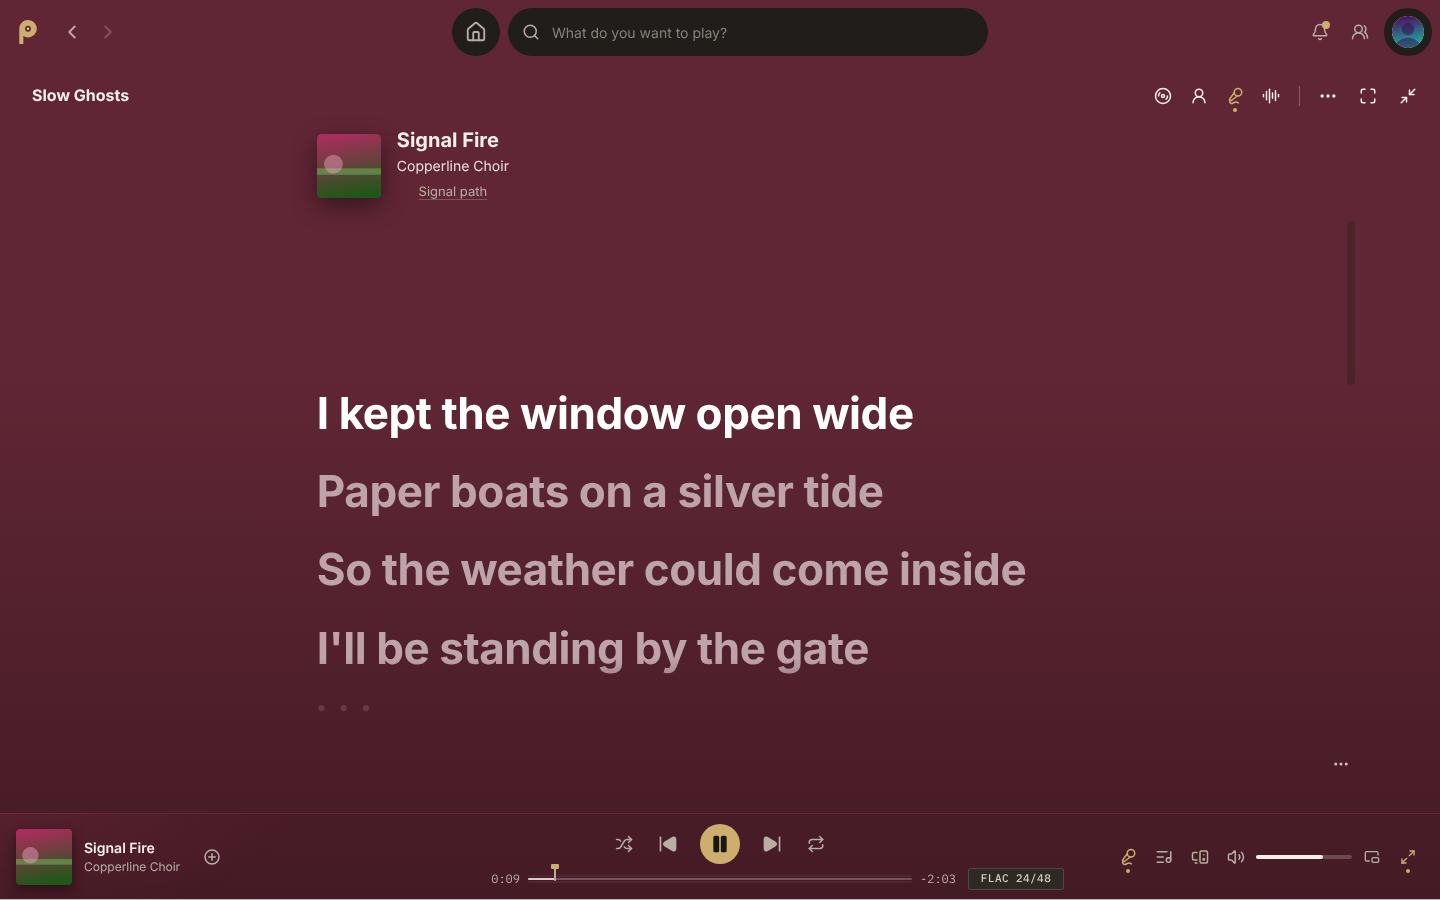
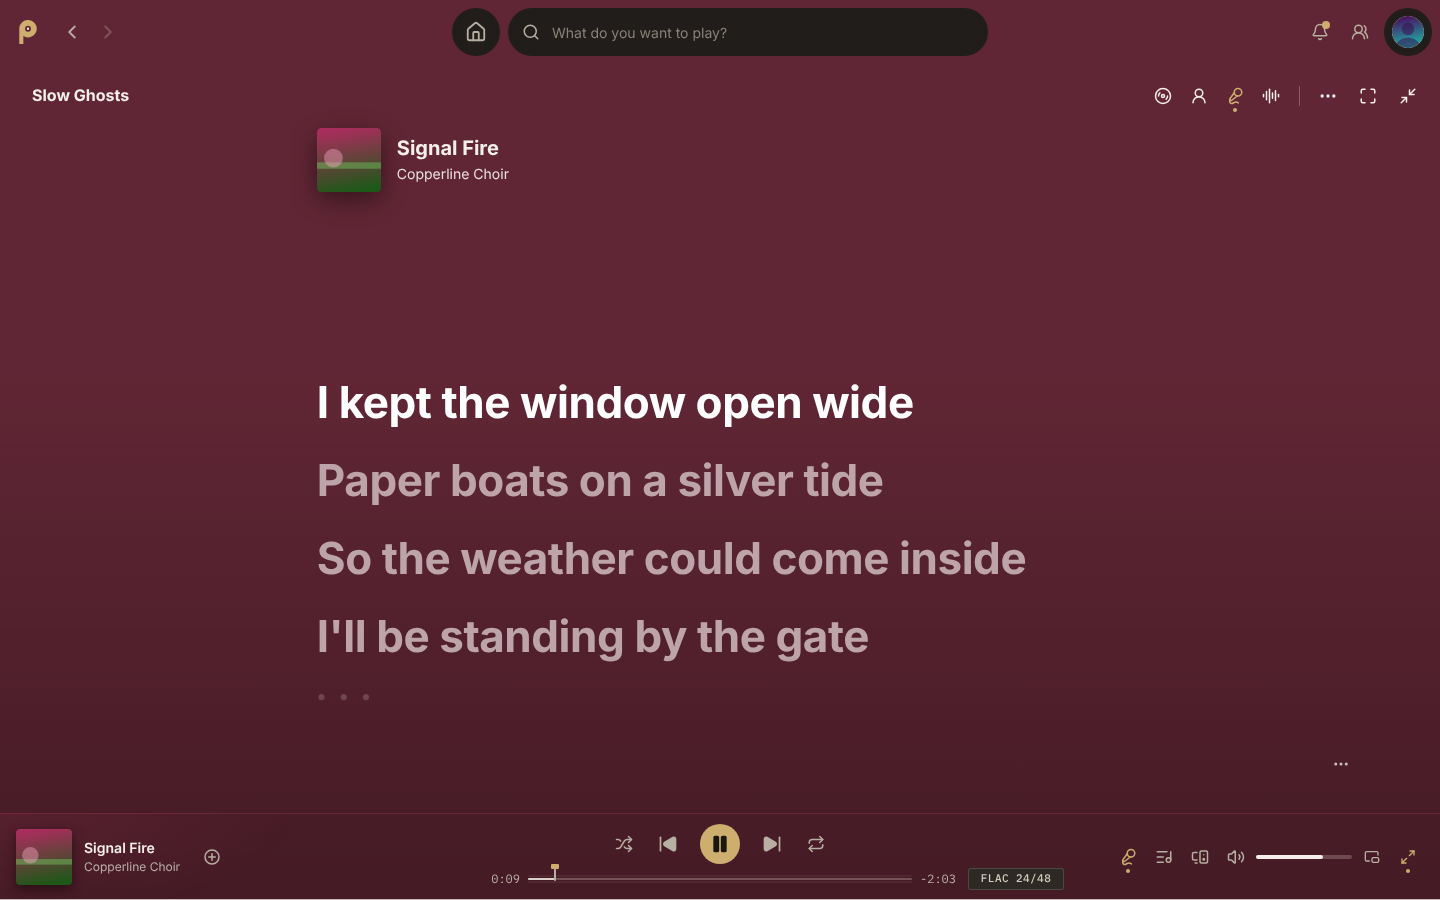
Expanded view: no Signal path link or pencil in the header, no scroll bar on lyrics

Changed region(s): [[0.2188, 0.4356, 0.7188, 0.6533], [0.2188, 0.6844, 0.625, 0.7467], [0.2188, 0.1244, 0.3438, 0.2178]]

diff --git a/src/shell/FullWindow.tsx b/src/shell/FullWindow.tsx
@@ -1,4 +1,4 @@
-import { AudioLines, Disc3, Ellipsis, Maximize, MicVocal, Minimize, Minimize2, PenLine, RefreshCcw, UserRound } from "lucide-react";
+import { AudioLines, Disc3, Ellipsis, Maximize, MicVocal, Minimize, Minimize2, RefreshCcw, UserRound } from "lucide-react";
 import { useEffect, useRef, useState, type CSSProperties, type MouseEvent, type ReactNode, type RefObject } from "react";
 import { Art } from "../components/Art";
 import { ArtistLinks, TextLink } from "../components/ArtistLinks";
@@ -7,7 +7,6 @@ import { openContextMenu } from "../components/ContextMenu";
 import { trackMenuItems } from "../components/TrackRow";
 import type { Track } from "../lib/types";
 import { fullWindow, useFullWindow, type FullWindowMode } from "../stores/fullWindow";
-import { openLyricsEditor, useLyricsEditor } from "../stores/lyricsEditor";
 import { player, usePlayer } from "../stores/player";
 import { nav } from "../stores/router";
 import { useSettings } from "../stores/settings";
@@ -19,7 +18,7 @@ import { SEEK_KEY_STEP } from "./PlayerBar";
 import { Turntable } from "./Turntable";
 import { useDeckLyrics } from "./deckLyrics";
 import { useFlipPause } from "./useFlipPause";
-import { SignalLink } from "./SignalPath";
+import { openSignal } from "../stores/signalPath";
 import { VOLUME_KEY_STEP } from "./useShortcuts";
 import { StylePicker, VisualizerView, useShownStyle } from "../visualizer/VisualizerView";
 import { ArtStage } from "../visualizer/ArtStage";
@@ -126,7 +125,6 @@ function Meta({ track, className = "" }: { track: Track; className?: string }) {
       <div className="fw__album truncate">
         <TextLink onActivate={() => nav.go({ name: "album", id: track.albumId })}>{track.albumTitle}</TextLink>
       </div>
-      <SignalLink className="fw__signal" />
     </div>
   );
 }
@@ -208,7 +206,10 @@ function FullWindowView() {
 
   const hasLyrics = !!lyrics || actionableNotice(lyricsInfo);
   const noLyrics = !!track && !lyricsLoading && !hasLyrics;
-  const ownLyrics = useLyricsEditor((s) => !!track && s.ownIds.has(track.id));
+  // The signal path opens from the player bar's badge, and from here.
+  const signalOn = useSettings((s) => s.settings?.signalPathBadge !== false);
+  const remote = usePlayer((s) => !!s.remote);
+  const signalItem = signalOn && !remote ? [{ label: "Signal path", icon: AudioLines, separator: true, onSelect: () => openSignal() }] : [];
   const artistPhoto = details?.artist ? details.artist.art || details.artist.thumb : null;
   // A song whose artist has no image shows its artwork; the mode stays for the next song.
   // The visualizer with its button turned off shows the artwork too.
@@ -353,15 +354,6 @@ function FullWindowView() {
       <header className="fw__top fw__chrome" inert={bare || undefined}>
         <ContextName />
         <div className="fw__actions">
-          {/* Add lyrics lives in the empty state; the pencil edits lyrics you wrote. */}
-          {track && shown === "lyrics" && ownLyrics && (
-            <IconButton
-              label="Edit lyrics"
-              tooltipPlacement="bottom"
-              icon={<PenLine size={18} />}
-              onClick={() => openLyricsEditor(track)}
-            />
-          )}
           <div className="fw__modes" role="group" aria-label="Show">
             <ModeToggle mode="artwork" current={mode} label="Artwork" icon={<Disc3 size={18} />} />
             <ModeToggle mode="artist" current={mode} label="Artist image" off={!artistPhoto} offTip="No artist image" icon={<UserRound size={18} />} />
@@ -375,7 +367,7 @@ function FullWindowView() {
               tooltip={`More options for ${track.title}`}
               tooltipPlacement="bottom"
               icon={<Ellipsis size={20} />}
-              onClick={(e) => openContextMenu(`Options for ${track.title}`, trackMenuItems(track), e.currentTarget)}
+              onClick={(e) => openContextMenu(`Options for ${track.title}`, [...trackMenuItems(track), ...signalItem], e.currentTarget)}
             />
           )}
           <IconButton

diff --git a/src/test/lyrics-extras.test.tsx b/src/test/lyrics-extras.test.tsx
@@ -101,7 +101,6 @@ describe("translation", () => {
   });
 
   it("Translate shows the translation under each line and hides it again", async () => {
-    const user = userEvent.setup();
     await withSettings({ translationService: "https://tr.example.com", translateTo: "fr" });
     at(plain, 40_000);
     render(<LyricsPane />);
@@ -113,7 +112,6 @@ describe("translation", () => {
   });
 
   it("keeps a song's translation: Hide then Translate, or coming back, doesn't ask again", async () => {
-    const user = userEvent.setup();
     await withSettings({ translationService: "https://tr.example.com", translateTo: "fr" });
     const tr = vi.spyOn(backend, "lyricsTranslate");
     at(plain, 40_000);
@@ -133,7 +131,6 @@ describe("translation", () => {
   });
 
   it("a service that can't be reached says so and leaves the lyrics as they are", async () => {
-    const user = userEvent.setup();
     await withSettings({ translationService: "https://tr.example.com" });
     mock.translateFails = true;
     at(plain, 40_000);

diff --git a/src/test/full-window.test.tsx b/src/test/full-window.test.tsx
@@ -312,6 +312,19 @@ describe("modes", () => {
     expect(document.querySelector(".lyrics__line.is-current, [aria-current]")).toBeNull();
   });
 
+  it("keeps the header to the title, artist and album; Signal path is in More options", async () => {
+    play(synced);
+    render(<FullWindow />);
+    act(() => fullWindow.open("lyrics"));
+    await screen.findByLabelText("Lyrics", { selector: ".lyrics__scroll" });
+    const v = view()!;
+    expect(within(v).queryByRole("button", { name: "Signal path" })).toBeNull();
+    expect(within(v).queryByRole("button", { name: "Edit lyrics" })).toBeNull();
+    fireEvent.click(within(v).getByRole("button", { name: "More options" }));
+    expect(useUi.getState().menu?.items.map((i) => i.label)).toContain("Signal path");
+    act(() => useUi.setState({ menu: null }));
+  });
+
   it("a song without lyrics: the toggle is off, and lyrics mode offers Write your own", async () => {
     play(none);
     render(<FullWindow />);

diff --git a/src/design/scrollbars.ts b/src/design/scrollbars.ts
@@ -10,6 +10,9 @@
  * toast and tooltip (`layer` in tokens.ts). A scroller inside one of those
  * floating layers gets its thumb one step above that layer instead.
  *
+ * A scroller marked `data-scrollbar="off"` never shows one (the lyrics,
+ * which scroll by themselves as the song plays).
+ *
  * Two passive document listeners serve every scroller. A shown scroller also
  * gets `.sb-on` (and keeps `.sb` once seen) for styles that want to follow.
  */
@@ -159,6 +162,7 @@ function startDrag(el: Element, thumb: HTMLElement, e: PointerEvent): void {
 
 /** Show `el`'s scrollbar and (re)start its idle timer. */
 export function showScrollbar(el: Element, idleMs = SCROLLBAR_IDLE_MS): void {
+  if (el.getAttribute("data-scrollbar") === "off") return;
   if (!el.classList.contains("sb")) el.classList.add("sb");
   el.classList.add("sb-on");
   if (el.ownerDocument?.body) {

diff --git a/src/test/motion.test.ts b/src/test/motion.test.ts
@@ -119,6 +119,21 @@ describe("overlay scrollbars", () => {
     }
   });
 
+  it("a scroller marked off (the lyrics, which follow the song) never shows one", () => {
+    const stop = installOverlayScrollbars(window);
+    const el = document.createElement("div");
+    el.setAttribute("data-scrollbar", "off");
+    document.body.appendChild(el);
+    try {
+      el.dispatchEvent(new Event("scroll"));
+      expect(el).not.toHaveClass("sb-on");
+      expect(document.querySelector(".sb-thumb")).toBeNull();
+    } finally {
+      stop();
+      el.remove();
+    }
+  });
+
   it("native bars take no width; the drawn thumb fades", () => {
     expect(globalCss).toMatch(/\* \{ scrollbar-width: none; \}/);
     expect(globalCss).toMatch(/::-webkit-scrollbar \{ width: 0; height: 0; \}/);

diff --git a/src/shell/SignalPath.tsx b/src/shell/SignalPath.tsx
@@ -172,19 +172,6 @@ export function SignalBadge() {
   );
 }
 
-/** Expanded view: a quiet text button that opens the signal path. */
-export function SignalLink({ className }: { className?: string }) {
-  const on = useSettings((s) => s.settings?.signalPathBadge !== false);
-  const track = usePlayer((s) => s.state?.track ?? null);
-  const remote = usePlayer((s) => !!s.remote);
-  if (!on || !track || remote) return null;
-  return (
-    <button type="button" className={`signal-link ${className ?? ""}`} aria-haspopup="dialog" {...{ [OPENER]: "" }} onClick={() => openSignal()}>
-      Signal path
-    </button>
-  );
-}
-
 function Plate({ stage }: { stage: Stage }) {
   return (
     <li className={`signal-plate ${stage.off ? "is-off" : ""}`}>

diff --git a/src/shell/LyricsView.tsx b/src/shell/LyricsView.tsx
@@ -172,6 +172,7 @@ function SyncedLyrics({
         <div
           ref={scroller}
           className="lyrics__scroll"
+          data-scrollbar="off"
           tabIndex={0}
           aria-label="Lyrics"
           onWheel={pause}
@@ -270,7 +271,7 @@ function PlainLyrics({
   return (
     <div className={`lyrics lyrics--plain ${className}`}>
       <div className="lyrics__body">
-        <div className="lyrics__scroll" tabIndex={0} aria-label="Lyrics">
+        <div className="lyrics__scroll" data-scrollbar="off" tabIndex={0} aria-label="Lyrics">
           <div className="lyrics__lines">
             <p className="lyrics__unsynced">{note}</p>
             {lines.map((l, i) =>

diff --git a/src/shell/signal-path.css b/src/shell/signal-path.css
@@ -5,20 +5,6 @@
 /* The badge is a plate (components/Plate.tsx, design/instruments.css). */
 .signal-badge { flex: none; }
 
-.signal-link {
-  padding: 2px 0;
-  background: none;
-  border: 0;
-  color: var(--color-text-secondary);
-  font-size: var(--font-size-sm);
-  cursor: pointer;
-  text-decoration: underline;
-  text-decoration-color: color-mix(in srgb, currentColor 35%, transparent);
-  text-underline-offset: 3px;
-}
-.signal-link:hover { color: var(--color-text-primary); }
-.signal-link:focus-visible { outline: 2px solid var(--color-focus-ring); outline-offset: 2px; border-radius: 2px; }
-
 .signal-panel {
   position: fixed;
   right: var(--space-4);
